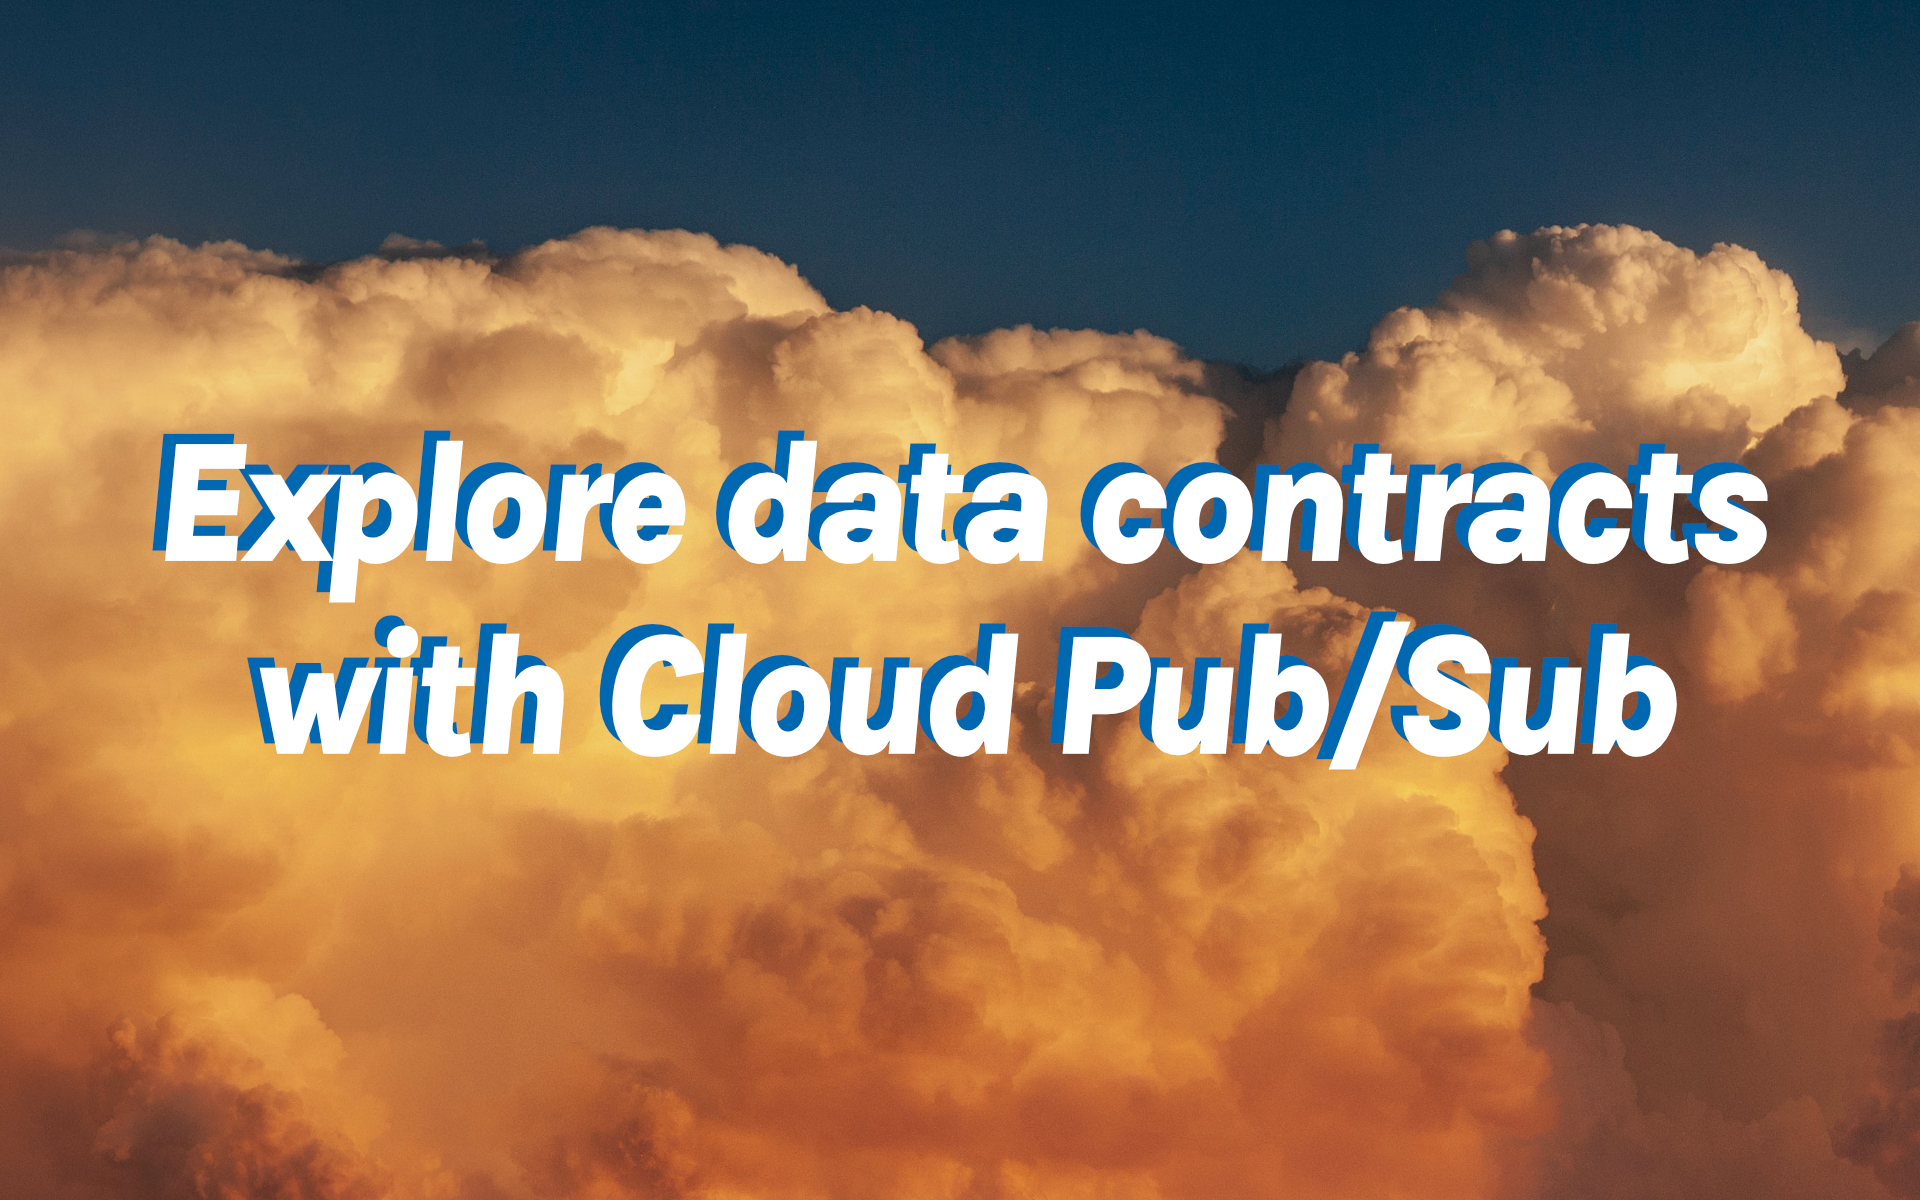
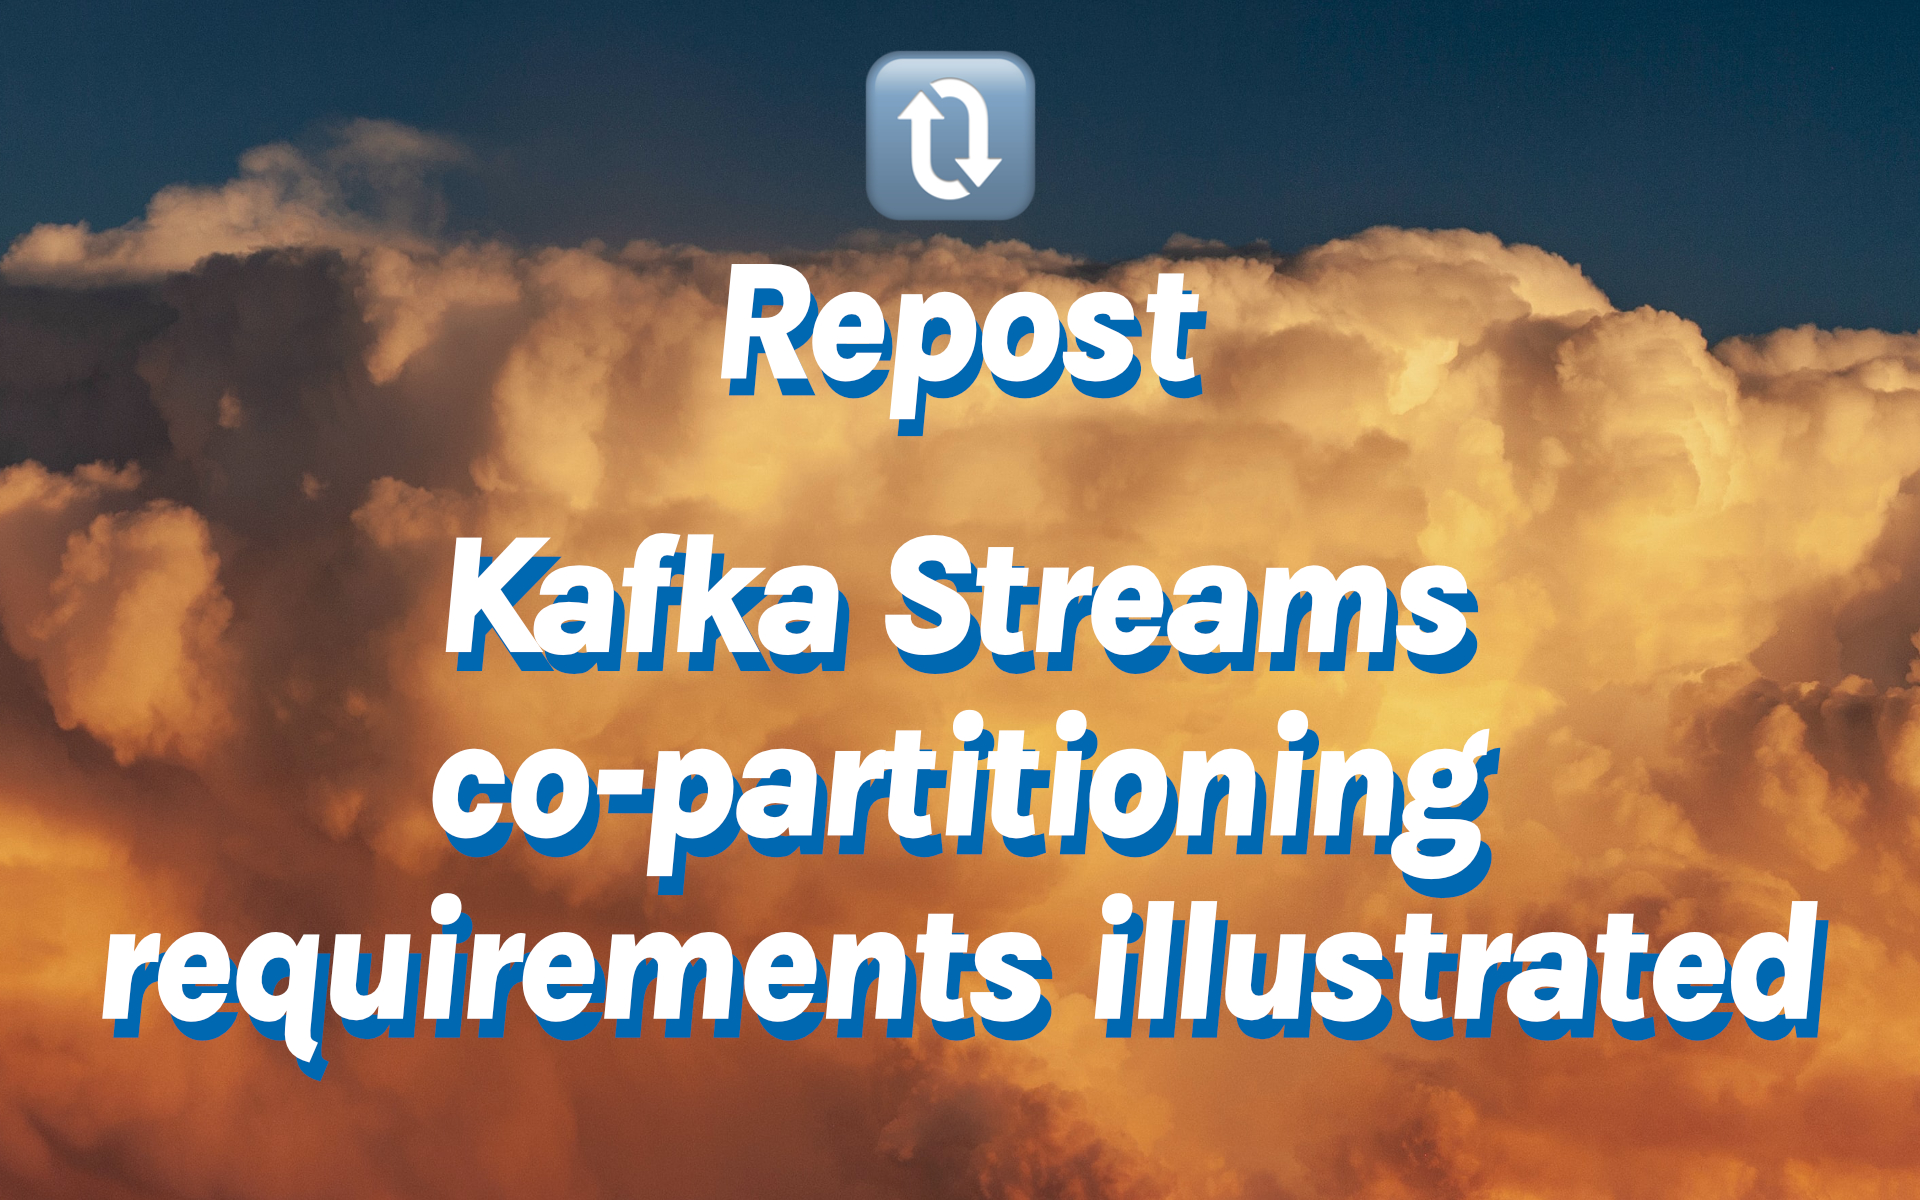
Create the repost as 7th blog post

diff --git a/layouts/shortcodes/repost-screeds.html b/layouts/shortcodes/repost-screeds.html
@@ -6,7 +6,7 @@
         </span>
     </div>
     <div class="ld-info-text">
-        Note on Repost Blog: blog.loicmdivad.com is a place to collect all the work I'm doing in software engineering. But to avoid content duplication when an article is published somewhere else (e.g. Medium, corporate blog), I just create a Repost Blog. This type of blog just describes the story of the publication briefly and include a link to it. Repost blog can be recognized by the tag
+        Note on Repost Blog: blog.loicmdivad.com is a place to collect all the work I'm doing in software engineering. But to avoid content duplication when an article is published somewhere else (e.g. Medium, corporate blog), I just create a Repost Blog. This type of blog just describes the story of the publication briefly and include a link to it. Repost blog can be identified by the tag
         <span class="tag-list">
             <span class="tag-list-element">
                 <a href="/tags/repost/" class="tag-link">

diff --git a/content/posts/07_kstreams_co_partitioning_requirements.md b/content/posts/07_kstreams_co_partitioning_requirements.md
@@ -1,0 +1,18 @@
+---
+title: "Repost 🔃 Kafka Streams, co-partitioning requirements illustrated"
+date: 2020-06-20T09:00:00+01:00
+draft: false
+tags: ["repost", "kafka", "streams", "en-link"]
+extra_css: ["css/post.css"]
+post_banner: "post_banner007.png"
+thumbnail: thumbnail007.jpg
+---
+Back in 2020, I wrote an article about data exchange between Kafka Streams instances. I was not working with Kafka Stream at a specific time. But my head was full of many ideas I wanted to put on paper after using the Kafka Streams library for quite a while. The way joins happen was one of those ideas.
+
+{{< repost
+    link="https://medium.com/xebia-france/kafka-streams-co-partitioning-requirements-illustrated-2033f686b19c"
+    title="Kafka Streams, co-partitioning requirements illustrated" >}}
+
+Like many people, when I started to work with this stream processing library, I had prior experiences with Apache Spark and other data processing frameworks. _Shuffling_ was quite an important concept for stateful operations such as *grouping*, *joining* or *windowing*. The idea was not easy to grasp, and you had to avoid it as much as possible. So when I had to switch mental model to use Kafka Streams, thinking about _Repartitioning_ instead of _Shuffling_ felt way more intuitive. So I tried to use my knowledge of Apache Kafka to describe it by creating a demo and a colourful blog post.
+
+{{< repost-screeds >}} 
